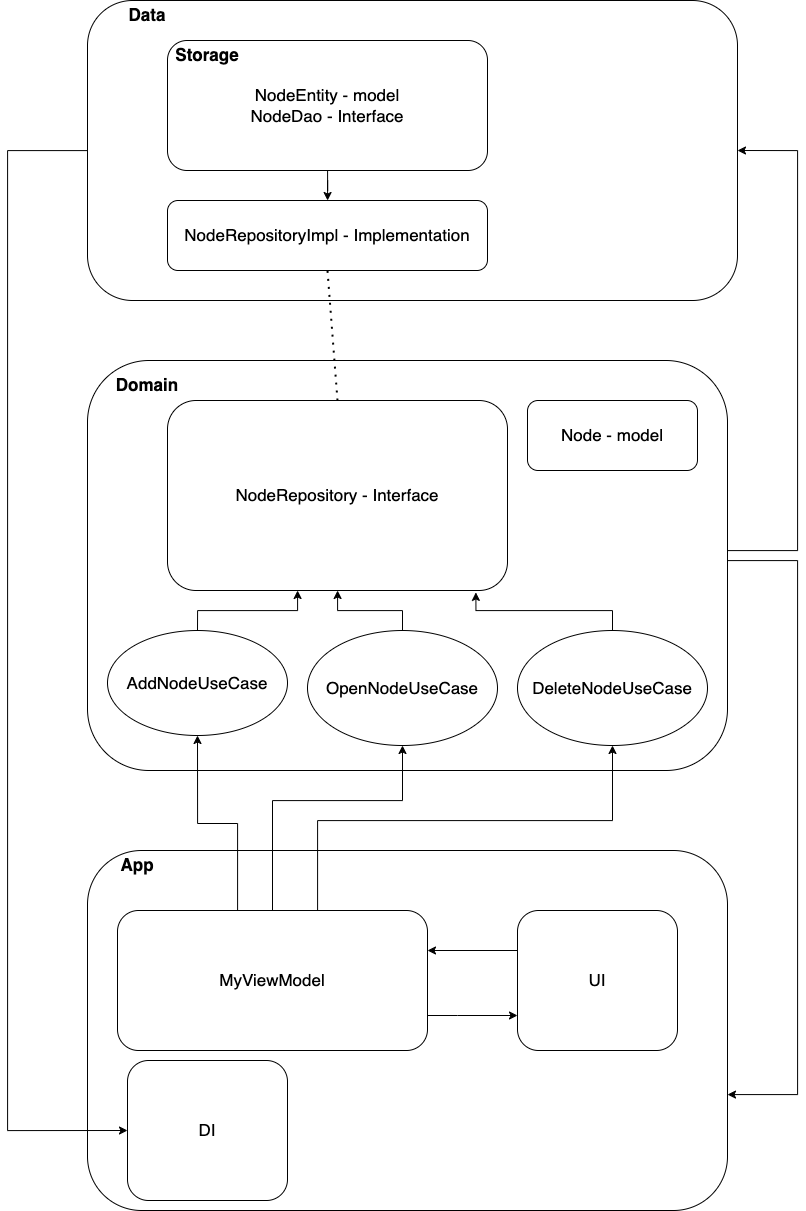
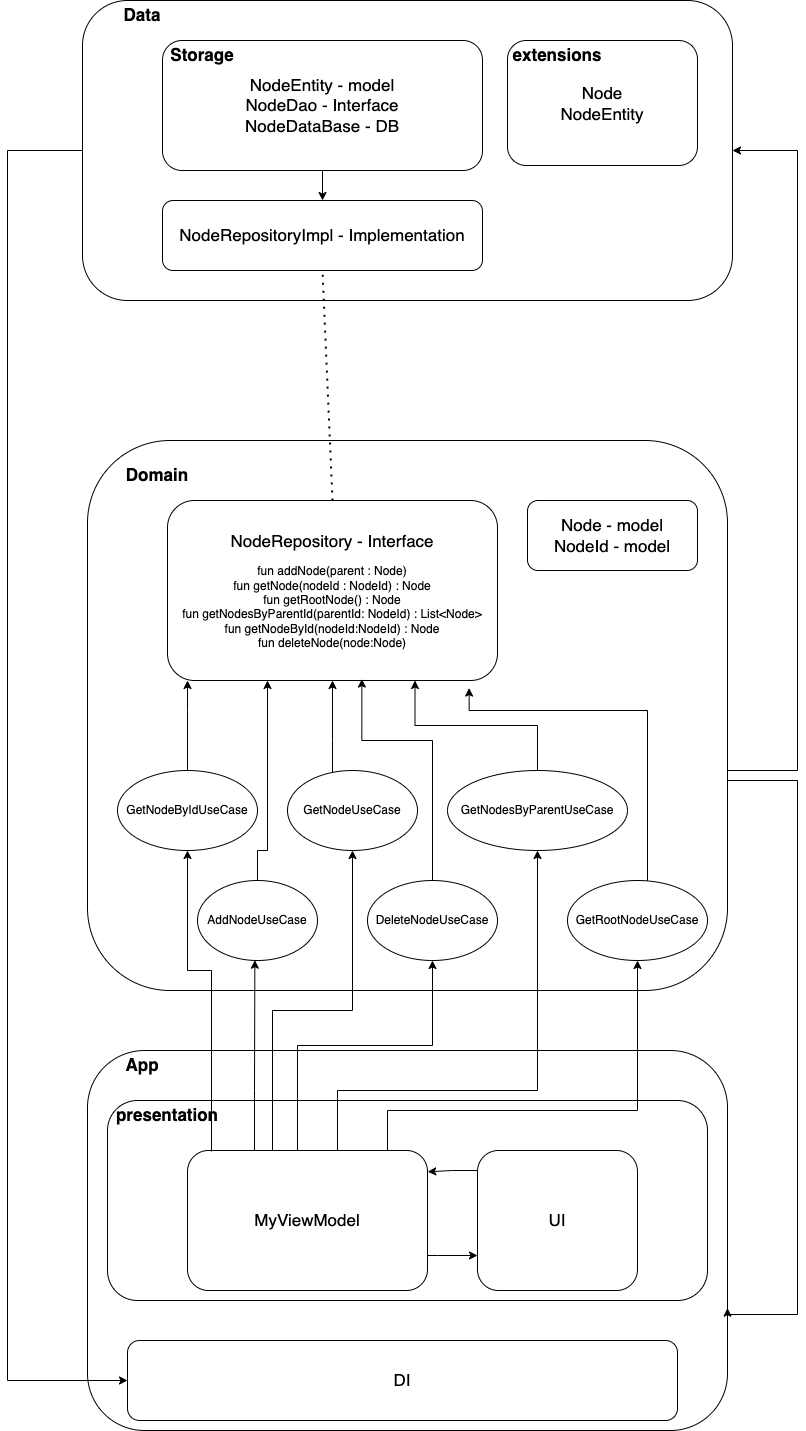
немного отрефакторил, переделал график

diff --git a/app/src/main/java/com/DeNet/di/AppCompat.kt b/app/src/main/java/com/DeNet/di/AppCompat.kt
@@ -1,6 +1,6 @@
 package com.DeNet.di
 
-import com.DeNet.presentation.MainActivity
+import com.DeNet.presentation.ui.MainActivity
 import dagger.Component
 import javax.inject.Singleton
 

diff --git a/app/src/main/java/com/DeNet/presentation/ui/MainActivity.kt b/app/src/main/java/com/DeNet/presentation/ui/MainActivity.kt
@@ -1,4 +1,4 @@
-package com.DeNet.presentation
+package com.DeNet.presentation.ui
 
 
 import android.os.Bundle
